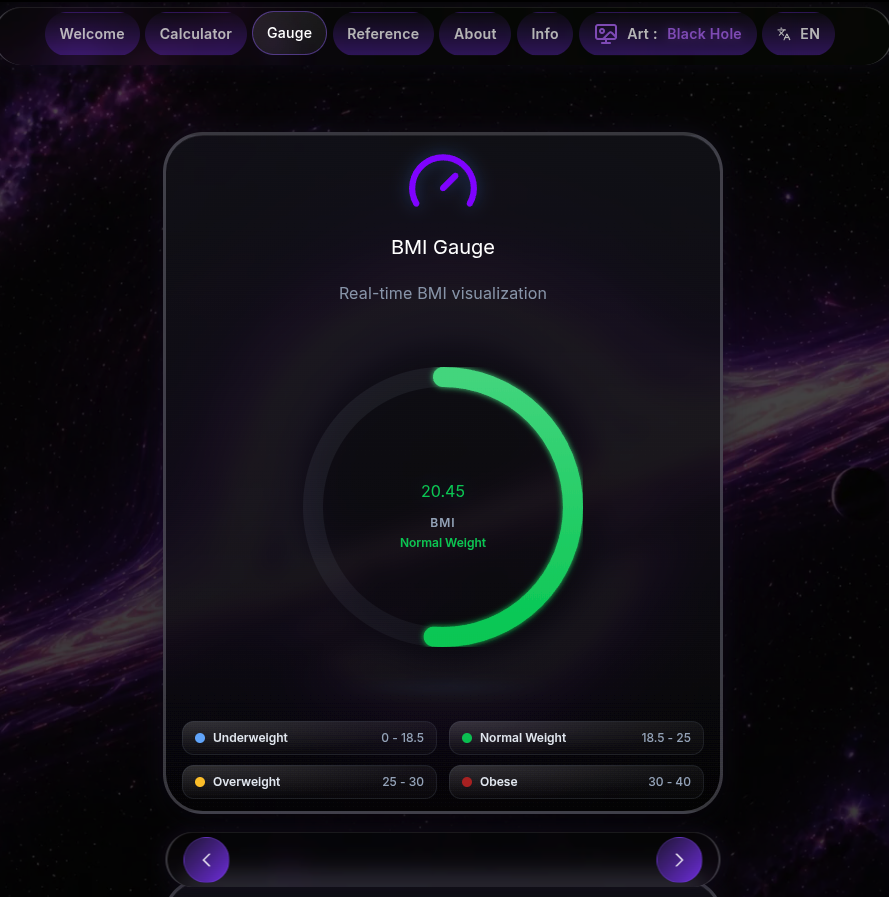
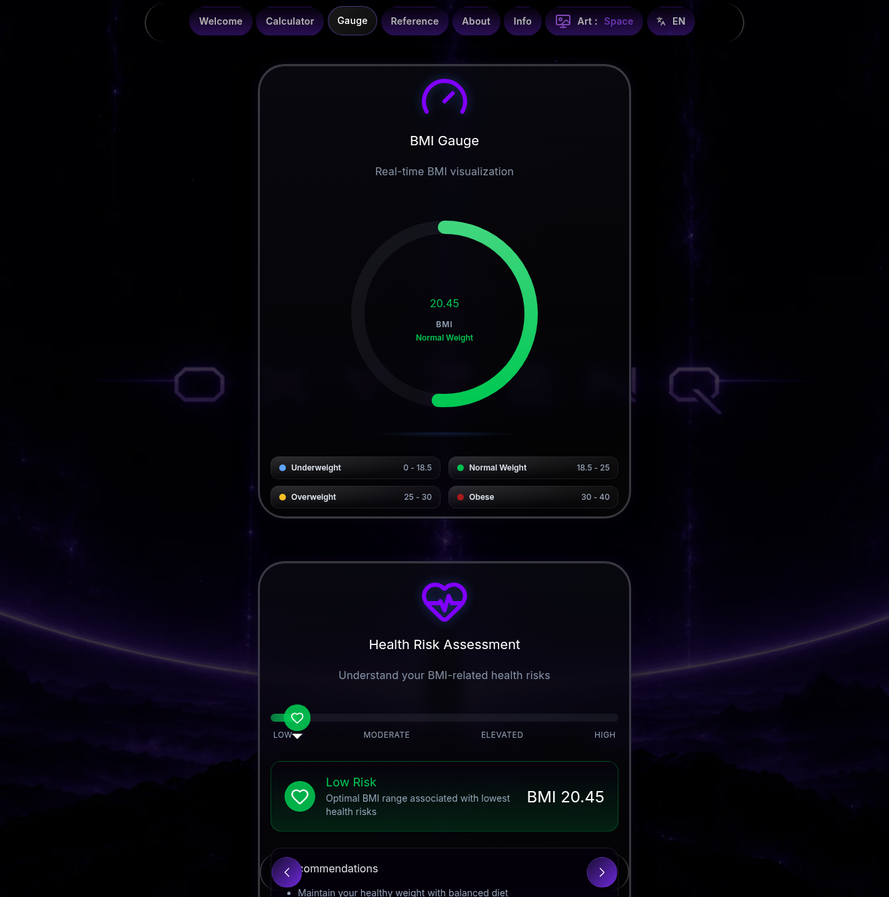
Internal research: re-shoot the five README demo screenshots
All five assets/demo-bmi-stellar-*.png surfaces were captured from a
real browser session against the vite preview production build, so the
showcase now carries the 2026 Stellar mark and the new space wallpaper
(Art: Space) instead of the retired art. The data story is preserved
and exact: metric 24y/181 cm/67 kg male at 1.725x activity renders BMI
20.45, prime 0.82, ideal range 60.6-81.9 kg, TDEE 2909 kcal/day; the
snapshot shows the same three history entries (20.45, 21.37, 26.86),
the 79% progress bar, best 21.37, current 26.86, target 22.00.

Capture pipeline: headless Chromium viewport at 1.5x pipeline scale
(home 1563x1410, gauge/gauge-active/results 1334x1346, snapshot
1334x1172), Lanczos downsized to the recorded pixel dims. The five
BLAKE3 rows in signature.b3sum and signature-assets.md moved with the
bytes; every gate stays green (check-all 12/12, gate-keepers 13/13,
14/14 signed assets).

diff --git a/assets/signature-assets.md b/assets/signature-assets.md
@@ -28,11 +28,11 @@ b3sum assets/*.png docs/assets/*.png static/assets/*.png | sort -k2
 
 | file                                            | bytes   | blake3                                                             |
 | ----------------------------------------------- | ------- | ------------------------------------------------------------------ |
[13 lines of base64/hex data omitted]

diff --git a/CHANGELOG.md b/CHANGELOG.md
@@ -88,6 +88,21 @@ For the full architectural context behind any release, see [`docs/furthermore.md
 
 ### Changed
 
+- **The five README demo screenshots were re-shot against the live
+  production build.** All five `assets/demo-bmi-stellar-*.png` surfaces
+  (home page, gauge, gauge active, results, snapshot) were captured from
+  a real browser session on the `vite preview` build with the new 2026
+  Stellar mark and the new space wallpaper visible, showing `Art: Space`
+  in the nav. The data story is preserved and verified against the
+  published formulas: metric 24y/181 cm/67 kg male at activity 1.725x
+  renders BMI 20.45, BMI prime 0.82, ideal range 60.6-81.9 kg, and TDEE
+  2909 kcal/day; the snapshot accumulates the same three history entries
+  (20.45, 21.37, 26.86) for a 79% progress bar, a 26.86 current, a 21.37
+  best, and the target 22.00. Captured at 1.5x pipeline scale (Lanczos
+  downsize to the recorded pixel dims) and re-signed: the five BLAKE3
+  rows in `signature.b3sum` and `signature-assets.md` moved with the
+  bytes. _(this commit)_
+
 - **Wallpaper refresh: the space art swaps to the 2026 oxyzenQ plate, and
   a fourth theme "Telescopic Cosmic" lands.** The `space` theme now
   renders `static/images/oxyzenq-lite.webp` (the neon-purple OXYZENQ
